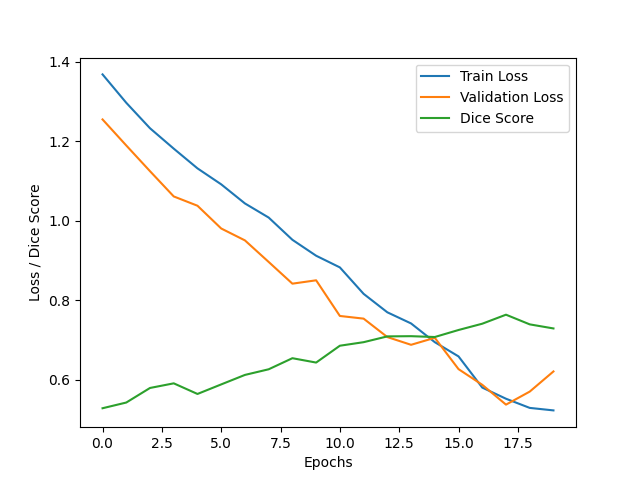
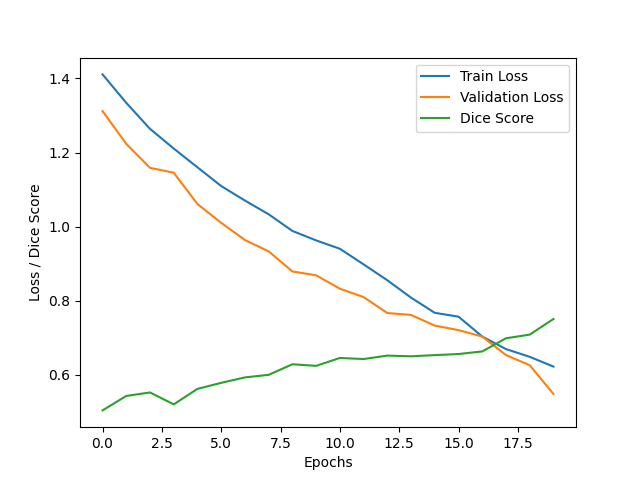
doubled residual blocks, bad idea (0.7504)

diff --git a/classical_ml/models/train.py b/classical_ml/models/train.py
@@ -167,7 +167,7 @@ model = UNet(
     out_channels=1,
     channels=(16, 32, 64, 128, 256),
     strides=(2, 2, 2, 2),
-    num_res_units=2,
+    num_res_units=4,        # 2,
 ).to(device)
 
 # criterion = DiceLoss(sigmoid=True)
@@ -250,7 +250,7 @@ for epoch in range(num_epochs):
     if val_dice > best_val_dice:
         best_val_dice = val_dice
         best_val_loss = val_loss
-        save_path = MODELS_DIR / "unet_model_improved_2.pth"
+        save_path = MODELS_DIR / "unet_model_improved_3.pth"
         MODELS_DIR.mkdir(parents=True, exist_ok=True)
         torch.save(model.state_dict(), save_path)
         print(f"  ✅ Best model saved → {save_path}  (val loss: {val_loss:.4f})")

diff --git a/classical_ml/models/heatmap.py b/classical_ml/models/heatmap.py
@@ -20,12 +20,12 @@ model = UNet(
     spatial_dims=2,
     in_channels=3,
     out_channels=1,
-    channels=(32, 64, 128, 256, 512),    #(16, 32, 64, 128, 256),
+    channels=(16, 32, 64, 128, 256),
     strides=(2, 2, 2, 2),
-    num_res_units=2,
+    num_res_units=4, # 2, 
 ).to(device)
 
-model.load_state_dict(torch.load(MODELS_DIR / "unet_model_improved_2.pth", map_location=device))
+model.load_state_dict(torch.load(MODELS_DIR / "unet_model_improved_3.pth", map_location=device))
 model.eval()
 
 transform = Compose([
